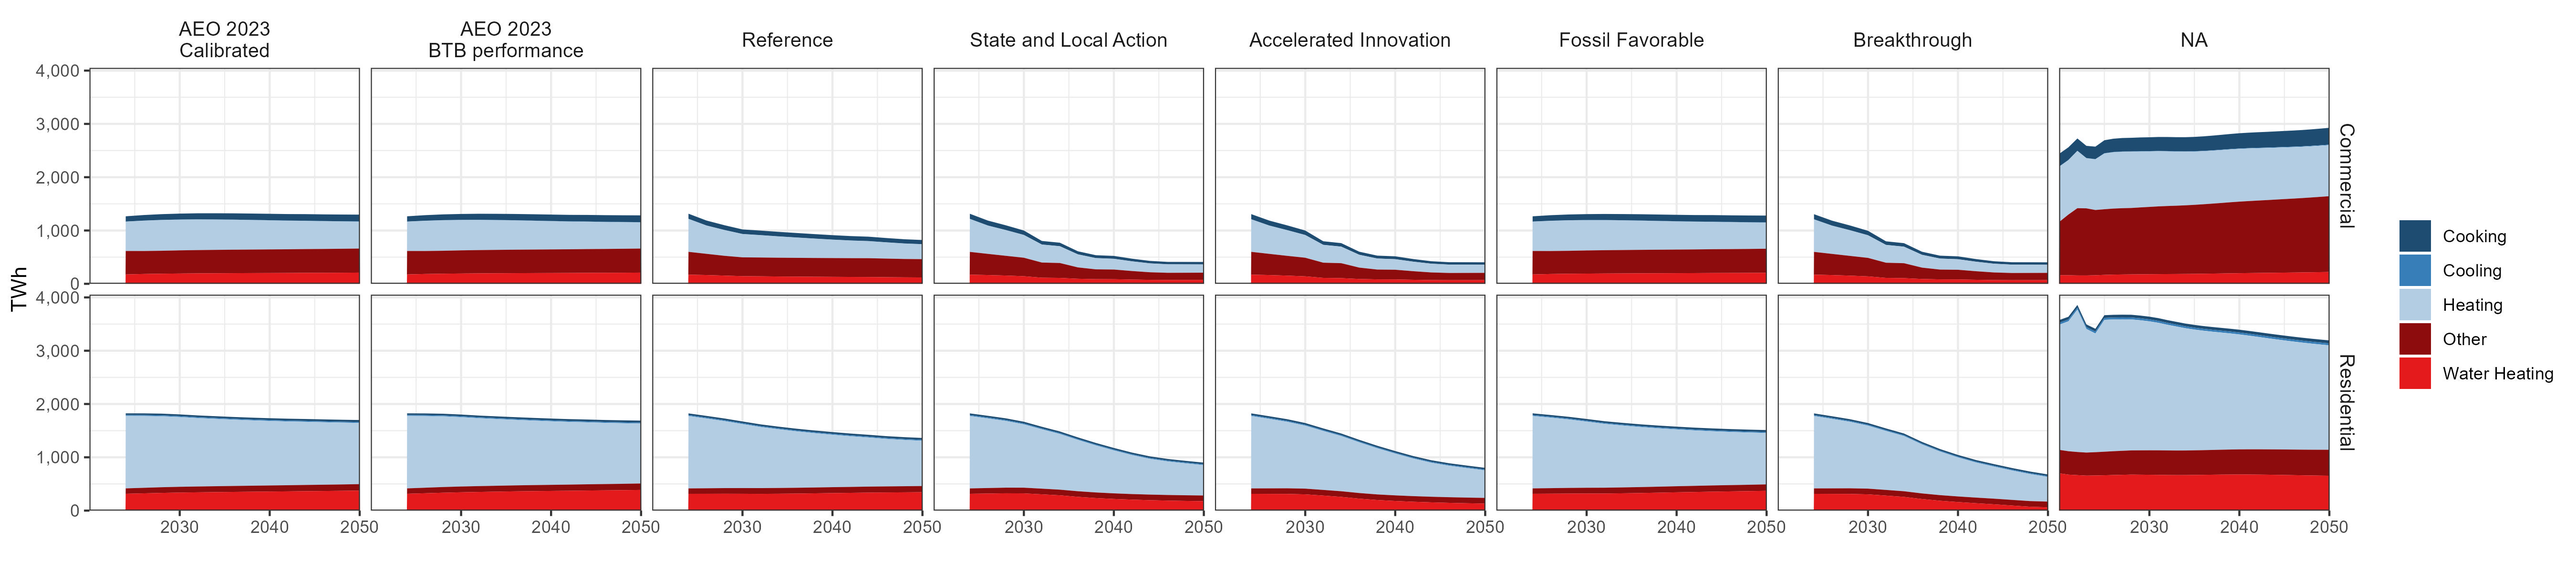
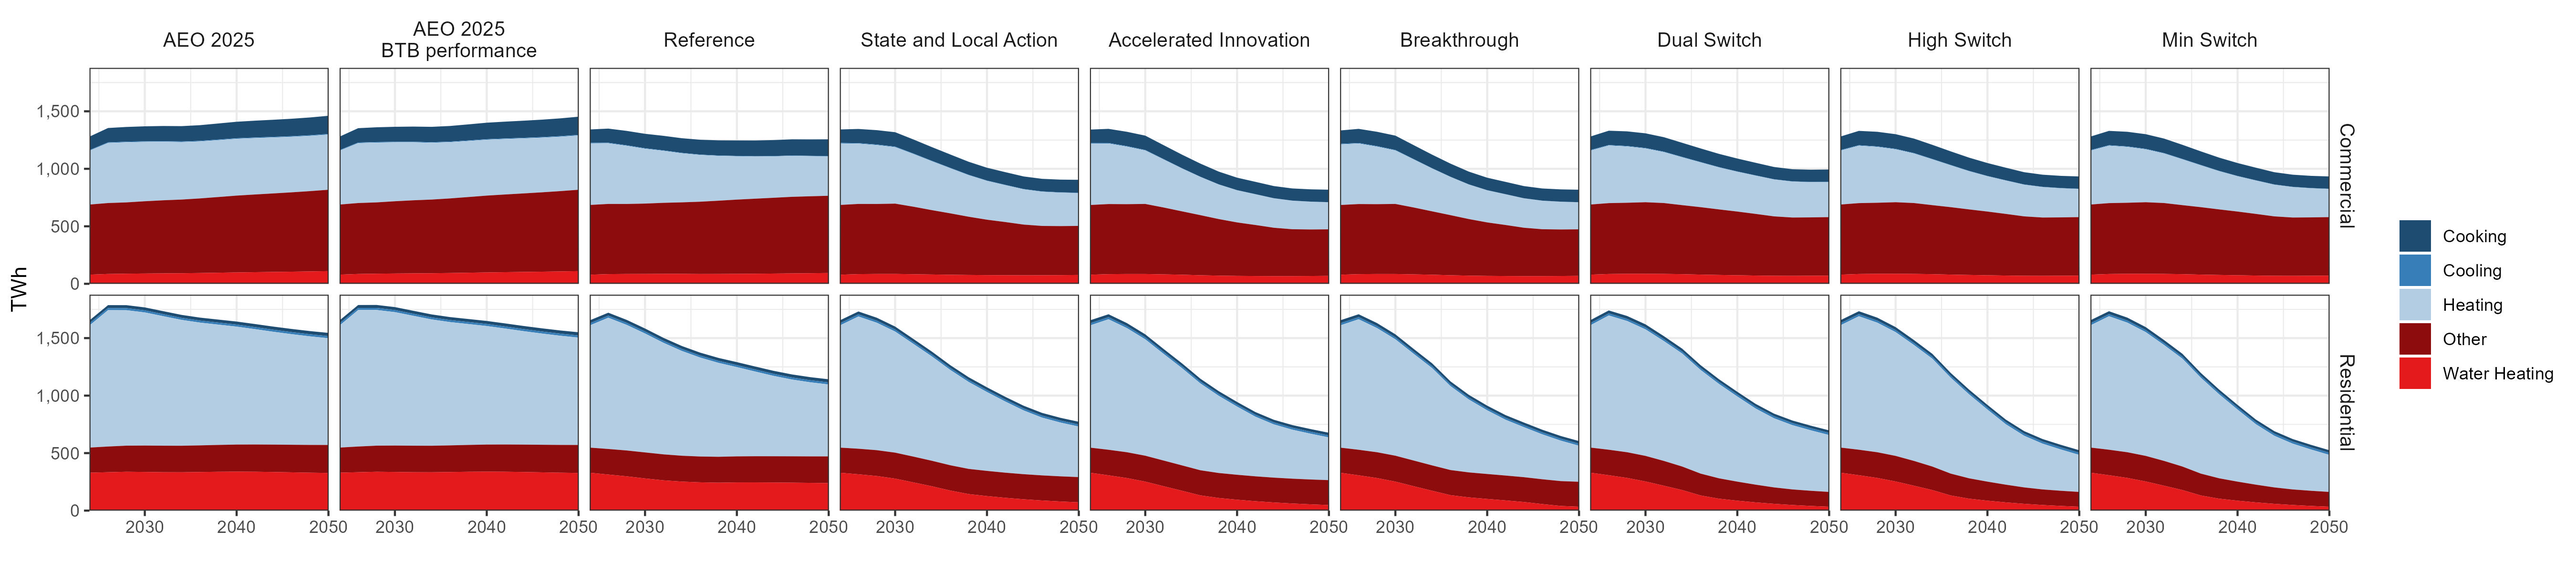
Modified to the latest

diff --git a/bss_workflow.py b/bss_workflow.py
@@ -42,9 +42,8 @@ class Config:
     # Runtime switches/identifiers
     DEST_BUCKET = "bss-workflow"
     BUCKET_NAME = "handibucket" 
-    SCOUT_RUN_DATE = "2025-06-16"
-    # VERSION_ID = "20250806_amy"
-    VERSION_ID = "20250910"
+    SCOUT_RUN_DATE = "2025-09-11"
+    VERSION_ID = "20250911"
 
     # TURNOVERS = ["breakthrough", "ineff", "mid", "high", "stated"]
     # TURNOVERS = ['brk','aeo25_20to50_bytech_indiv','aeo25_20to50_bytech_gap_indiv']
@@ -747,9 +746,10 @@ def county_partition_multipliers(athena_client, cfg: Config):
 def gen_scoutdata(s3_client, athena_client, cfg: Config):
     scout_files = [
         # Examples kept; you can uncomment the ones you need.
-        # "brk.json", 
-        # "accel.json", "state.json", "ref.json", "aeo.json",
-        # "dual_switch.json", "high_switch.json"
+        "brk.json", 
+        "accel.json", "state.json", "ref.json", "aeo.json",
+        "dual_switch.json", 
+        "high_switch.json",
         "min_switch.json"
         # "aeo25_20to50_bytech_indiv.json",
         # "aeo25_20to50_bytech_gap_indiv.json",
@@ -757,7 +757,7 @@ def gen_scoutdata(s3_client, athena_client, cfg: Config):
     ]
 
     # Ensure measure_map exists in Athena
-    # s3_create_table_from_tsv(s3_client, athena_client, cfg.MEAS_MAP_PATH, cfg)
+    s3_create_table_from_tsv(s3_client, athena_client, cfg.MEAS_MAP_PATH, cfg)
 
     for scout_file in scout_files:
         print(f">>> SCOUT FILE: {scout_file}")
@@ -798,8 +798,7 @@ def gen_countydata(athena_client, cfg: Config):
     for s in sectors:
         for y in years:
             for t in turnovers:
-                for name in ["tbl_ann_county.sql", "annual_county.sql",
-                             "tbl_hr_county.sql", "hourly_county.sql"]:
+                for name in ["tbl_ann_county.sql", "annual_county.sql","tbl_hr_county.sql", "hourly_county.sql"]:
                     sql_to_s3table(athena_client, cfg, name, s, y, t)
 
 
@@ -867,6 +866,7 @@ def combine_countydata(athena_client, cfg: Config):
         False)
 
     queries = [q_combined["annual"], q_combined["hourly"]]
+
     for query in queries:
         for t in turnovers:
             q = query.format(turnover=t, dest_bucket=cfg.BUCKET_NAME, version=cfg.VERSION_ID)
@@ -1248,6 +1248,7 @@ def main(opts):
     if opts.gen_scoutdata:
         s3, athena = get_boto3_clients()
         gen_scoutdata(s3, athena, cfg)
+        run_r_script("annual_graphs.R")
 
     if opts.gen_county:
         _, athena = get_boto3_clients()
@@ -1264,14 +1265,12 @@ def main(opts):
     if opts.gen_countyall:
         s3, athena = get_boto3_clients()
         # gen_scoutdata(s3, athena, cfg)
-        # gen_countydata(athena, cfg)
 
+        # gen_countydata(athena, cfg)
         # combine_countydata(athena, cfg)
         # test_county(s3, athena, cfg)
-
-        run_r_script("annual_graphs.R")
         # get_csvs_for_R(s3, athena, cfg)
-        # run_r_script("county and hourly graphs.R")
+        run_r_script("county and hourly graphs.R")
         # convert_long_to_wide(athena, cfg)
 
     if opts.bssbucket_insert:
